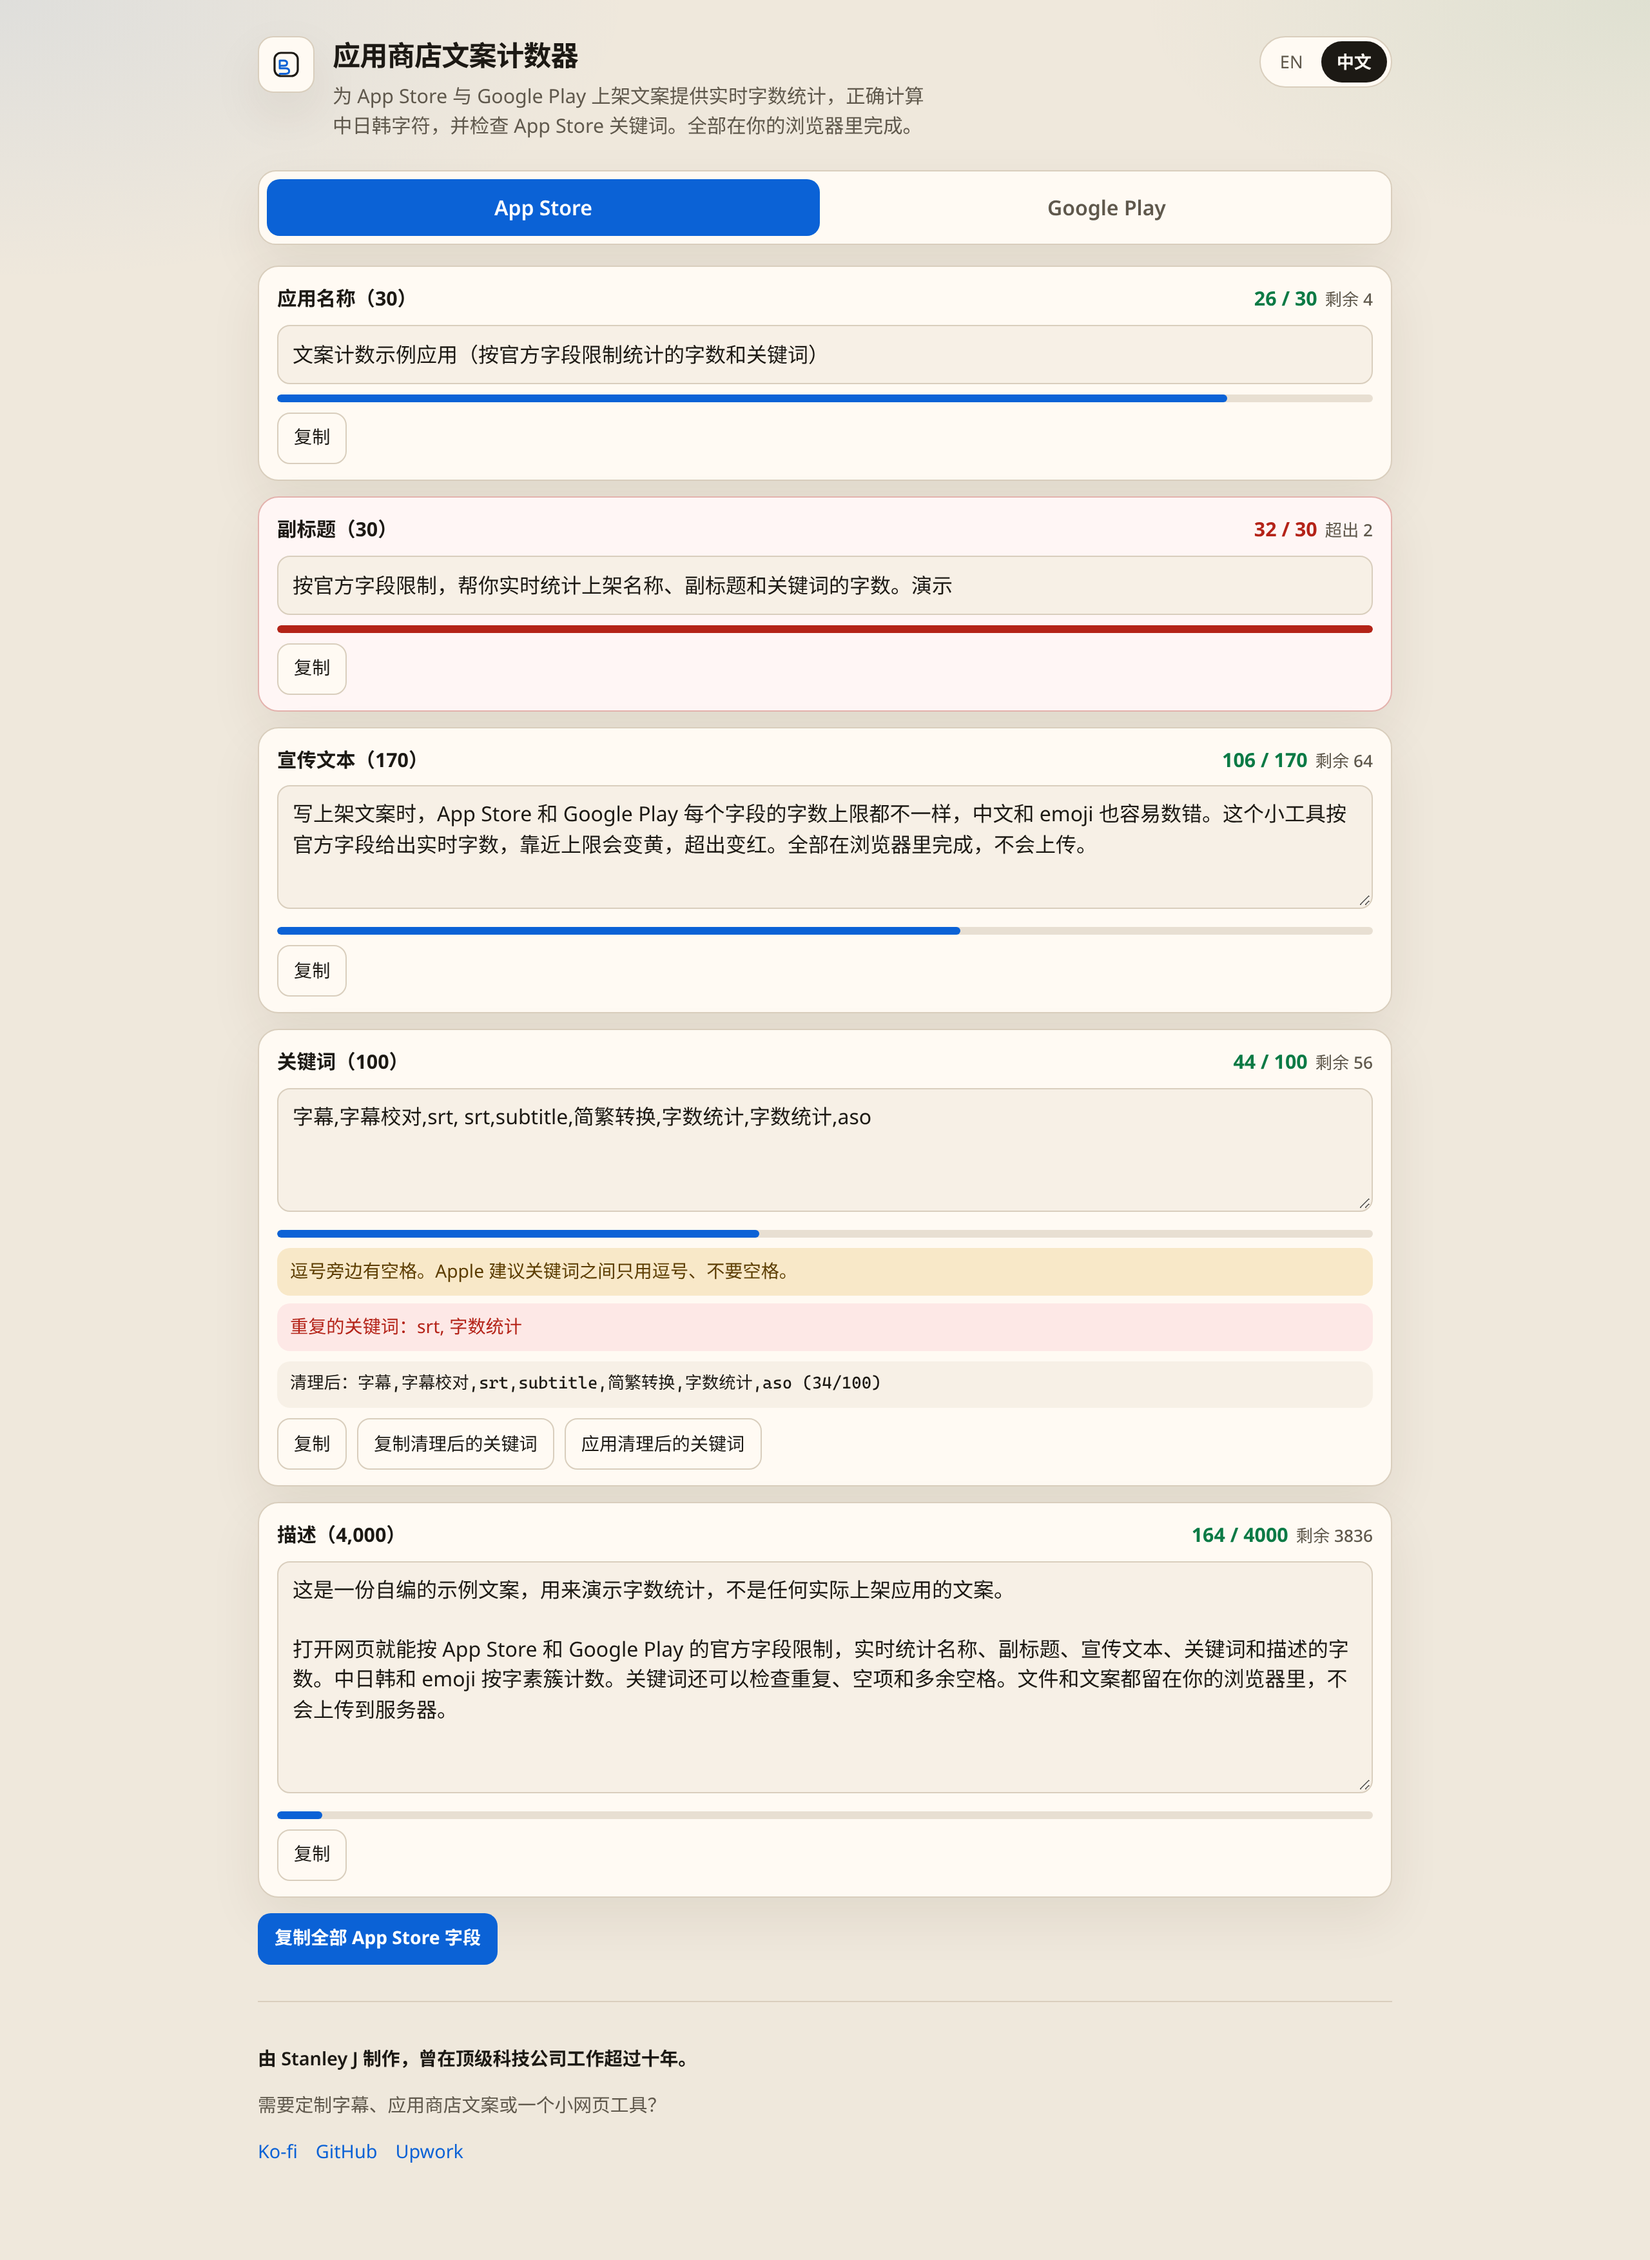
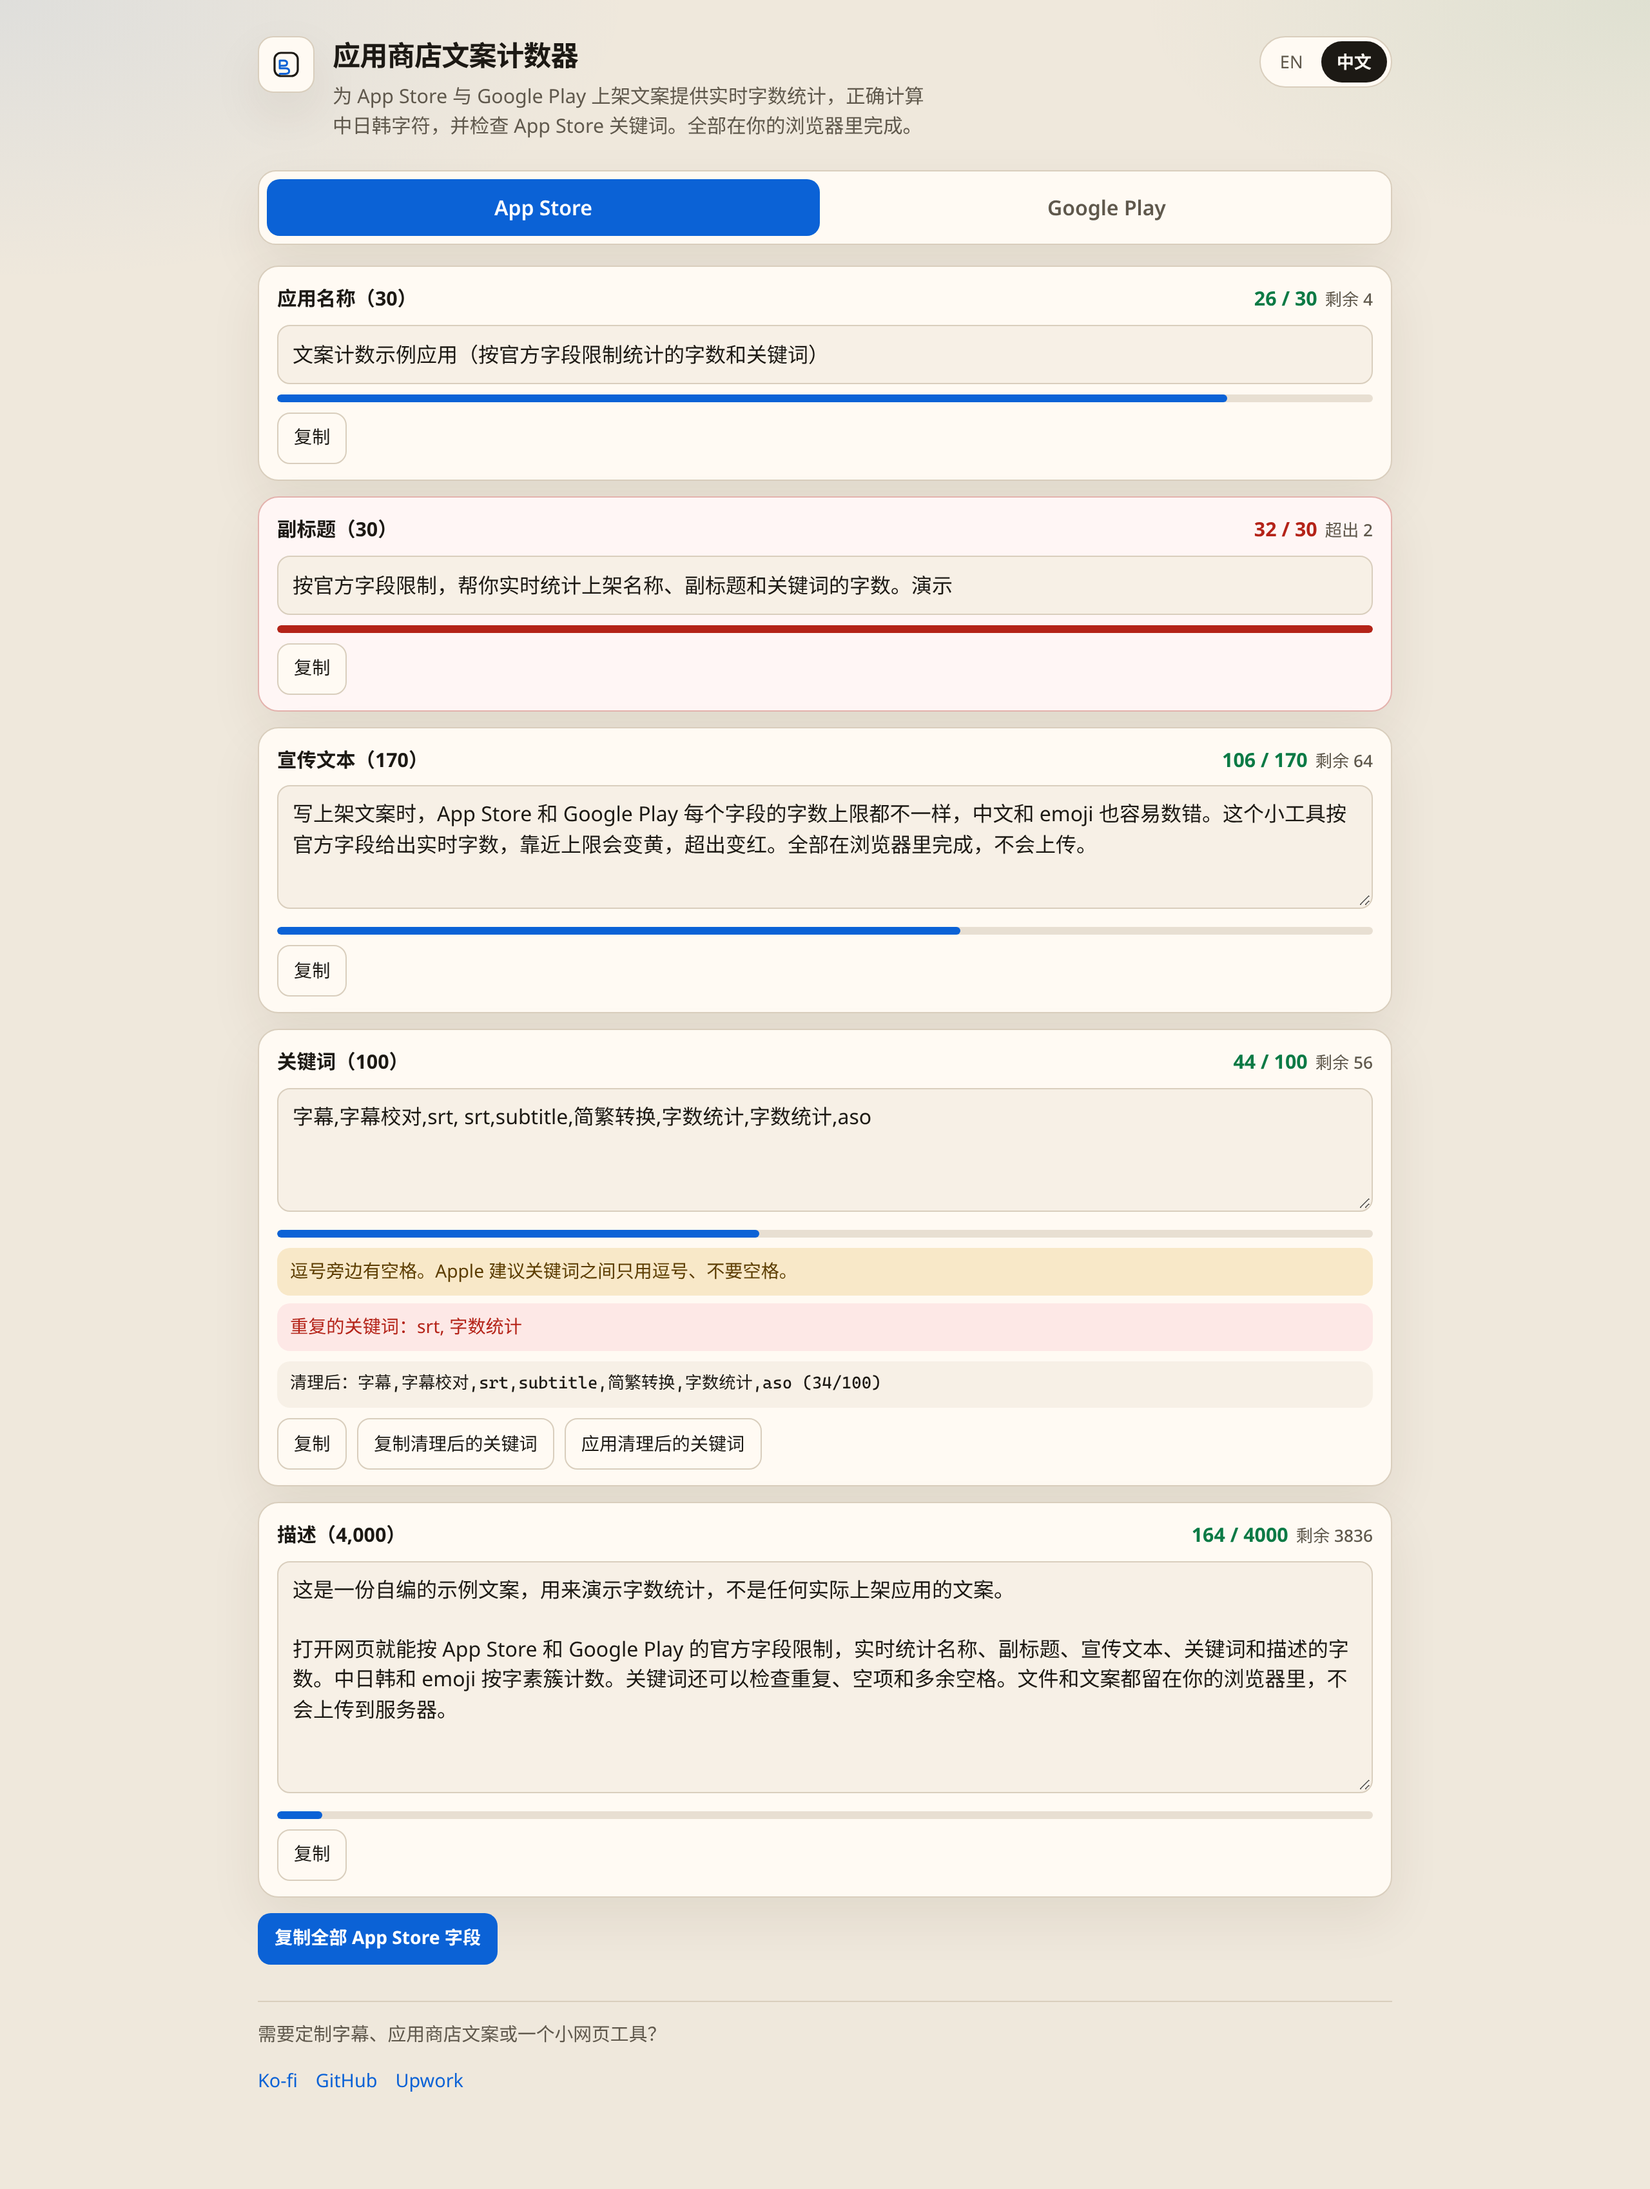
Remove author name from footer

Changed region(s): [[0.1562, 0.0, 0.8438, 0.9676], [0.8125, 0.0, 0.8438, 0.0312]]

diff --git a/index.html b/index.html
@@ -289,7 +289,6 @@ footer.site a:hover { text-decoration: underline; }
   </div>
 
   <footer class="site">
-    <p><strong data-i18n="footerBy">Made by Stanley J, 10+ years at top tech companies.</strong></p>
     <p data-i18n="footerCta">Need custom subtitles, ASO or a small web tool?</p>
     <p class="links">
       <a href="https://ko-fi.com/stanleyj" rel="noopener noreferrer">Ko-fi</a>
@@ -465,7 +464,7 @@ footer.site a:hover { text-decoration: underline; }
       kwWhitespace: "This field contains spaces. Apple recommends comma-separated keywords with no spaces.",
       kwEmptyToken: "There is an empty keyword (a doubled or trailing comma).",
       kwDuplicate: "Duplicate keywords: {list}",
-      footerBy: "Made by Stanley J, 10+ years at top tech companies.",
+      footerBy: "",
       footerCta: "Need custom subtitles, ASO or a small web tool?"
     },
     zh: {
@@ -496,7 +495,7 @@ footer.site a:hover { text-decoration: underline; }
       kwWhitespace: "此栏含有空格。Apple 建议用逗号分隔关键词，不要加空格。",
       kwEmptyToken: "存在空的关键词（连续逗号或末尾逗号）。",
       kwDuplicate: "重复的关键词：{list}",
-      footerBy: "由 Stanley J 制作，曾在顶级科技公司工作超过十年。",
+      footerBy: "",
       footerCta: "需要定制字幕、应用商店文案或一个小网页工具？"
     }
   };

diff --git a/README.md b/README.md
@@ -19,4 +19,4 @@ A free, in-browser counter for store listing copy. Nothing is uploaded: the text
 3. For App Store keywords, enter comma-separated terms. If spaces or duplicates appear, use **Apply cleaned keywords** or **Copy cleaned keywords**
 4. Use **Copy** on any field when you are ready to paste into App Store Connect or Play Console
 
-Made by Stanley J, 10+ years at top tech companies. Need custom subtitles, ASO or a small web tool? [Ko-fi](https://ko-fi.com/stanleyj) · [GitHub](https://github.com/todanley) · [Upwork](https://www.upwork.com/freelancers/~011fabd9dccfd03cd8)
+Need custom subtitles, ASO or a small web tool? [Ko-fi](https://ko-fi.com/stanleyj) · [GitHub](https://github.com/todanley) · [Upwork](https://www.upwork.com/freelancers/~011fabd9dccfd03cd8)
